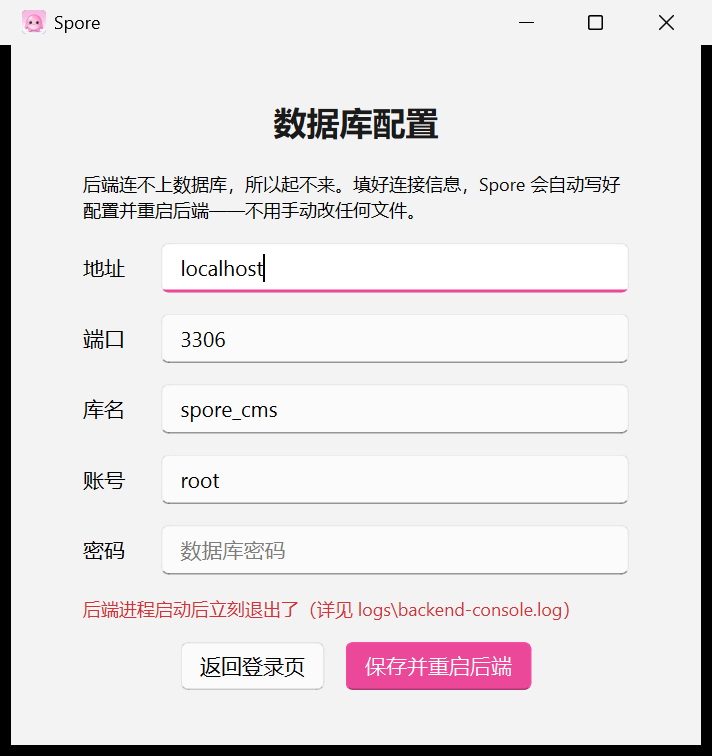
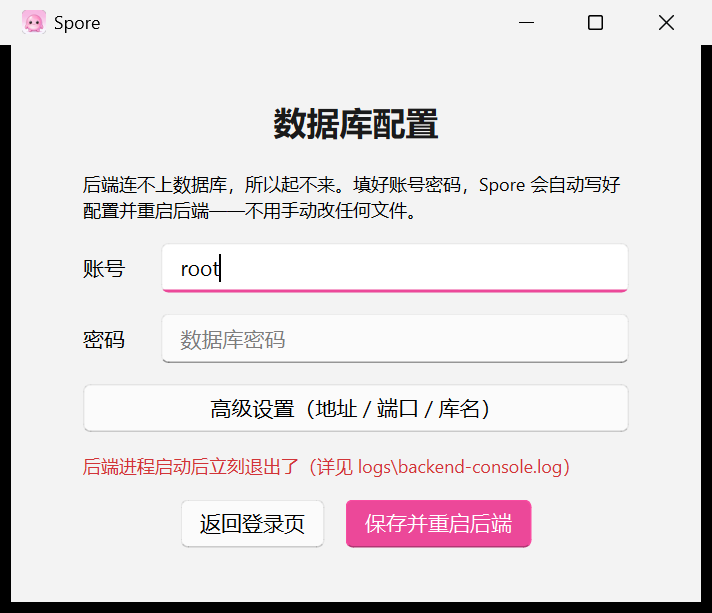
配置页收窄成账号+密码：地址/端口/库名收进「高级设置」折叠区
那三个字段是常量不是用户输入——application.yml 写死 localhost:3306/spore_cms、
schema.sql 也固定建 spore_cms。让用户复述程序已知的值是亏的：打错端口/库名只会
得到看不懂的连接失败。默认只露账号+密码，三项预填后收进折叠区，只服务改过端口/
库名的装机。

连带同步两处文档与截图：README 主文档、打包说明 README.txt 都改成「默认只填账号
+密码，其余在高级设置」，并把 README 嵌图换成新的收起态（旧图是五框布局已过时）。
同时修正一处版本号笔误——配置页是 v1.3.3 才有的，之前误写成 v1.3.2。

diff --git a/client/spore_client/db_config.py b/client/spore_client/db_config.py
@@ -9,6 +9,11 @@
 
 评分红线不破：口令只写进本机 application-local.yml（gitignore 敏感件），
 绝不进 git、不进 release zip。
+
+界面默认只露「账号 / 密码」两项：地址/端口/库名是常量（application.yml 写死
+localhost:3306/spore_cms，schema.sql 也固定建 spore_cms），让所有用户复述程序
+已经知道的值是亏的——一旦打错端口/库名只会得到看不懂的连接失败。三者收进
+「高级设置」折叠区，只服务极少数改过端口/库名的装机。
 """
 
 from __future__ import annotations
@@ -167,7 +172,7 @@ class DbConfigWindow(QWidget):
         self._task: _RestartTask | None = None
 
         self.setWindowTitle("Spore")
-        self.resize(460, 380)
+        self.resize(460, 310)   # 收起态（只露账号+密码）；展开高级区会自动撑高
 
         cur: dict[str, str] = {}
         cfg_path = config_path_for(backend)
@@ -186,28 +191,40 @@ class DbConfigWindow(QWidget):
         root.addSpacing(4)
 
         hint = CaptionLabel(
-            "后端连不上数据库，所以起不来。填好连接信息，"
+            "后端连不上数据库，所以起不来。填好账号密码，"
             "Spore 会自动写好配置并重启后端——不用手动改任何文件。")
         hint.setWordWrap(True)
         root.addWidget(hint)
 
-        self.host = LineEdit()
-        self.host.setText(cur.get("host", DEFAULTS["host"]))
-        self.port = LineEdit()
-        self.port.setText(cur.get("port", DEFAULTS["port"]))
-        self.database = LineEdit()
-        self.database.setText(cur.get("database", DEFAULTS["database"]))
         self.username = LineEdit()
         self.username.setText(cur.get("username", DEFAULTS["username"]))
         self.password = LineEdit()
         self.password.setPlaceholderText("数据库密码")
         self.password.setEchoMode(QLineEdit.Password)
 
-        root.addWidget(self._row("地址", self.host))
-        root.addWidget(self._row("端口", self.port))
-        root.addWidget(self._row("库名", self.database))
         root.addWidget(self._row("账号", self.username))
         root.addWidget(self._row("密码", self.password))
+
+        # 地址/端口/库名默认常量（localhost:3306/spore_cms），只服务改过端口/库名的装机
+        self.adv_toggle = PushButton("高级设置（地址 / 端口 / 库名）")
+        self.adv_toggle.setCheckable(True)
+        root.addWidget(self.adv_toggle)
+
+        self.adv_box = QWidget()
+        adv_lay = QVBoxLayout(self.adv_box)
+        adv_lay.setContentsMargins(0, 0, 0, 0)
+        adv_lay.setSpacing(14)
+        self.host = LineEdit()
+        self.host.setText(cur.get("host", DEFAULTS["host"]))
+        self.port = LineEdit()
+        self.port.setText(cur.get("port", DEFAULTS["port"]))
+        self.database = LineEdit()
+        self.database.setText(cur.get("database", DEFAULTS["database"]))
+        adv_lay.addWidget(self._row("地址", self.host))
+        adv_lay.addWidget(self._row("端口", self.port))
+        adv_lay.addWidget(self._row("库名", self.database))
+        self.adv_box.hide()          # 默认收起：正常用户只看到账号+密码
+        root.addWidget(self.adv_box)
 
         self.status = CaptionLabel("")
         self.status.setTextColor("#d13438", "#d13438")
@@ -229,6 +246,8 @@ class DbConfigWindow(QWidget):
         self.save_btn.clicked.connect(self._save)
         self.skip_btn.clicked.connect(self.skipped.emit)
         self.password.returnPressed.connect(self._save)
+        # 折叠开关：默认收起，点开才露地址/端口/库名（正常用户不需要它们）
+        self.adv_toggle.toggled.connect(self._toggle_advanced)
 
     # ---------- 布局小工具 ----------
     @staticmethod
@@ -244,6 +263,11 @@ class DbConfigWindow(QWidget):
         return w
 
     # ---------- 行为 ----------
+    def _toggle_advanced(self, checked: bool):
+        """展开/收起地址·端口·库名。默认收起——这三项是常量，正常用户不该碰。"""
+        self.adv_box.setVisible(checked)
+        self.adv_toggle.setText("高级设置" if checked else "高级设置（地址 / 端口 / 库名）")
+
     def _validate(self) -> bool:
         if not self.host.text().strip():
             self.status.setText("数据库地址必填")

diff --git a/README.md b/README.md
@@ -62,9 +62,10 @@ mysql -u root -p < schema.sql
 
 双击 `Spore.exe`——后端由客户端自己拉起（**不弹命令行窗口**），关客户端即停后端。
 
-- **v1.3.2 及以后**：如果客户端发现连不上数据库（后端起不来），会**自动弹出「数据库配置」页**，
-  你只要在界面里填好地址 / 端口 / 库名 / 账号 / 密码，点「保存并重启后端」——
-  Spore 会自己写好配置并重启后端，**全程不用手动改任何配置文件**。
+- **v1.3.3 及以后**：如果客户端发现连不上数据库（后端起不来），会**自动弹出「数据库配置」页**，
+  默认只需填**账号 + 密码**，点「保存并重启后端」——Spore 会自己写好配置并重启后端，
+  **全程不用手动改任何配置文件**。地址 / 端口 / 库名已按本应用的默认值
+  （`localhost:3306/spore_cms`）预填，收在「高级设置」里，只有改过端口或库名的装机才需要点开。
   填对了就直接进登录页；填错了页面会提示「数据库仍然连不上」，改完再存一次即可。
 
   ![数据库配置页](docs/screenshots/db-config-page.png)
